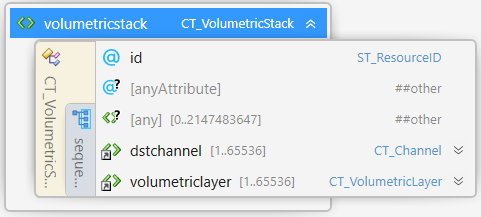
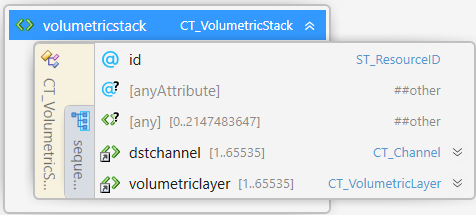
Fix number of elements to 2^16-1

diff --git a/3MF Volumetric Extension.md b/3MF Volumetric Extension.md
@@ -268,7 +268,7 @@ from multiple \<CT_ChannelFromImage3D> is composited to yield multiple custom sc
 
 2. The sampled values of each destination channel are built up by blending multiple layers, the \<volumetriclayer>-elements. This allows e.g. boolean opeartions on the scalar fields provided by different \<channelfromimage3d> elements.
 
-The volumetricstack element MUST contain at least one \<dstchannel> child element and MUST NOT contain more than 2^16 \<dstchannel> child-elements. The volumetricstack element MUST NOT contain more than 2^16 \<volumetriclayer> child-elements.
+The volumetricstack element MUST contain at least one \<dstchannel> child element and MUST NOT contain more than 2^16-1 \<dstchannel> child-elements. The volumetricstack element MUST NOT contain more than 2^16-1 \<volumetriclayer> child-elements.
 
 ## 4.1 Destination channel element
 
@@ -632,8 +632,8 @@ xmlns:xml="http://www.w3.org/XML/1998/namespace" targetNamespace="http://schemas
 	<xs:complexType name="CT_VolumetricStack">
 		<xs:sequence>
 			<xs:any namespace="##other" processContents="lax" minOccurs="0" maxOccurs="2147483647"/>
-			<xs:element ref="dstchannel" minOccurs="1" maxOccurs="65536"/>
-			<xs:element ref="volumetriclayer" minOccurs="1" maxOccurs="65536"/>
+			<xs:element ref="dstchannel" minOccurs="1" maxOccurs="65535"/>
+			<xs:element ref="volumetriclayer" minOccurs="1" maxOccurs="65535"/>
 		</xs:sequence>
 		<xs:attribute name="id" type="ST_ResourceID" use="required"/>
 		<xs:anyAttribute namespace="##other" processContents="lax"/>
